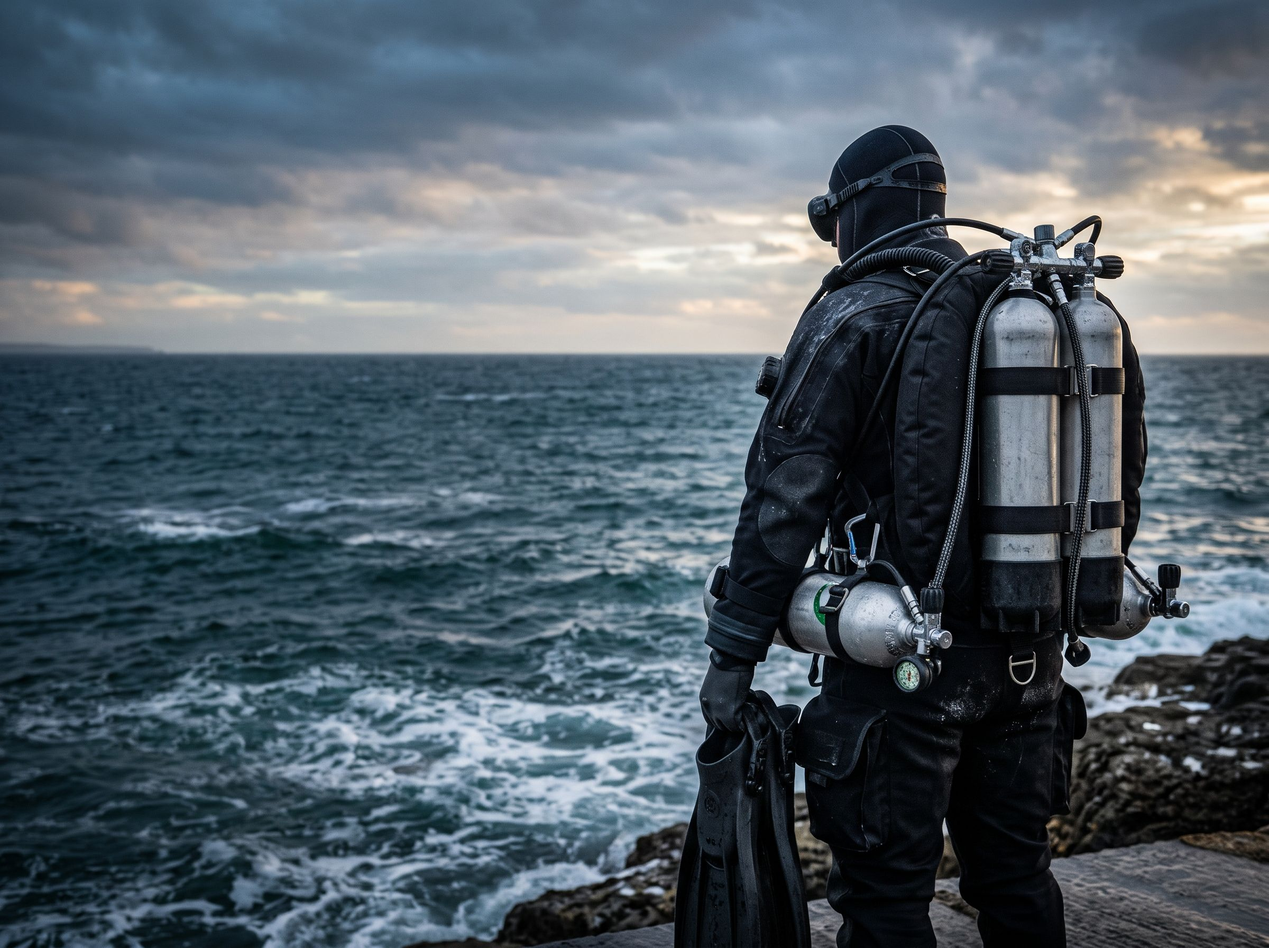
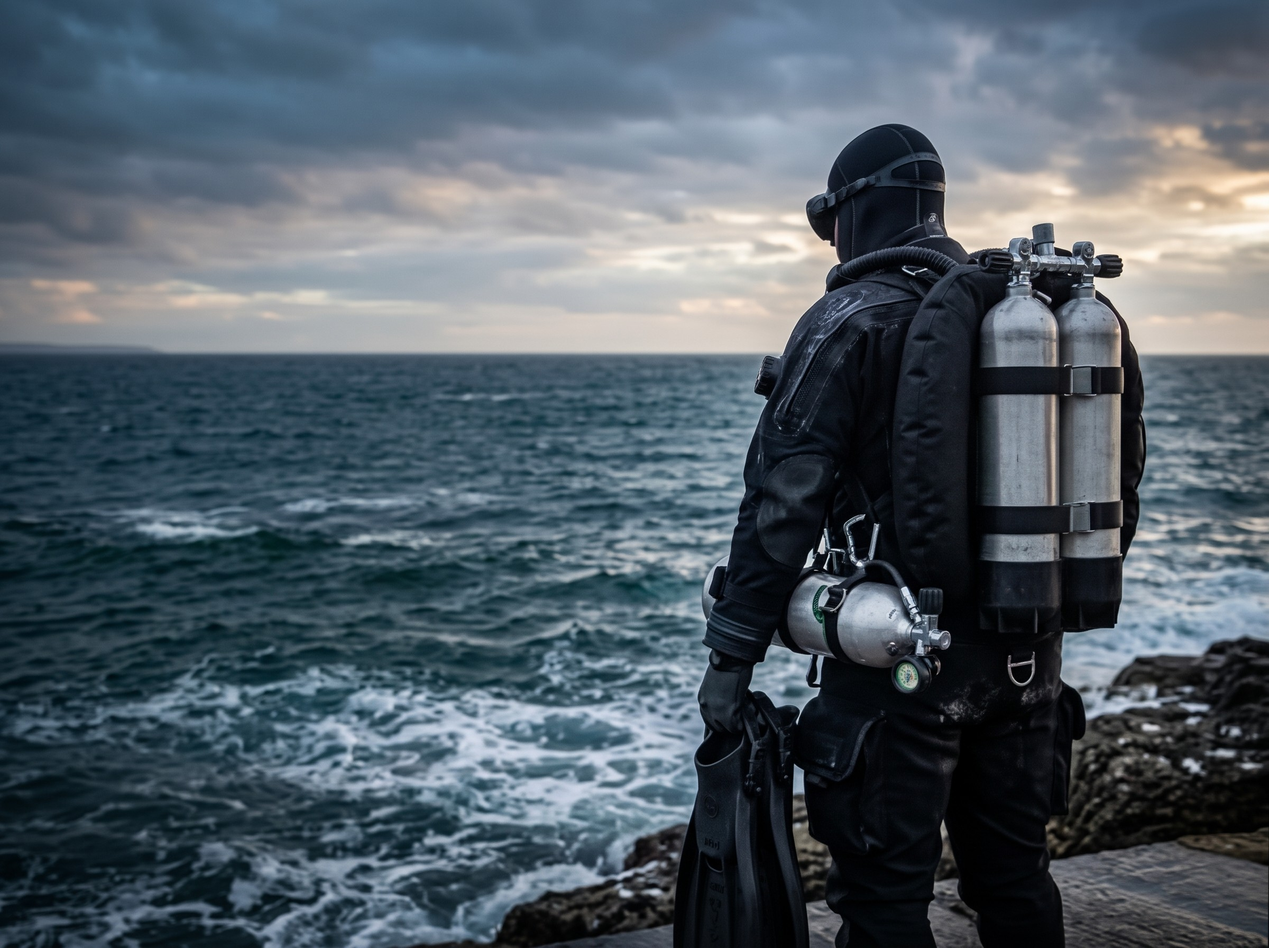
Release v1.7.8 - Mise a jour de la nouvelle photo de couverture Cover Carnet de Bord light.jpg

diff --git a/src/features/auth/LoginPage.tsx b/src/features/auth/LoginPage.tsx
@@ -188,7 +188,7 @@ export function LoginPage(): React.ReactElement {
     <div className="relative flex min-h-[100dvh] flex-col justify-between overflow-x-hidden bg-slate-950 p-3 sm:p-5 md:px-10 md:py-4 lg:px-14">
       {/* 1. PC & Tablette (md+) : Image officielle en fond d'écran plein cadre net (plongeur parfaitement dégagé à droite) */}
       <img
-        src="/Cover Carnet de Bord light.jpg"
+        src="/Cover Carnet de Bord light.jpg?v=1.7.8"
         alt=""
         aria-hidden="true"
         className="pointer-events-none fixed inset-0 hidden md:block h-full w-full object-cover object-right"
@@ -231,7 +231,7 @@ export function LoginPage(): React.ReactElement {
         {/* Bandeau photo affiché UNIQUEMENT sur GSM (< md) */}
         <div className="relative overflow-hidden rounded-xl border border-sky-400/30 shadow-xl md:hidden">
           <img
-            src="/Cover Carnet de Bord light.jpg"
+            src="/Cover Carnet de Bord light.jpg?v=1.7.8"
             alt="Moniteur National LIFRAS face à la mer — Carnet de Bord Digital CMN"
             className="h-32 w-full object-cover object-[70%_28%]"
           />

diff --git a/src/domain/referentials.ts b/src/domain/referentials.ts
@@ -1,6 +1,6 @@
 import type { Criterion, ExamCode, ExamType, Pillar, PillarCode } from './types';
 
-export const APP_VERSION = 'v1.7.7';
+export const APP_VERSION = 'v1.7.8';
 
 export const OFFICIAL_PILLARS: Pillar[] = [
   {
